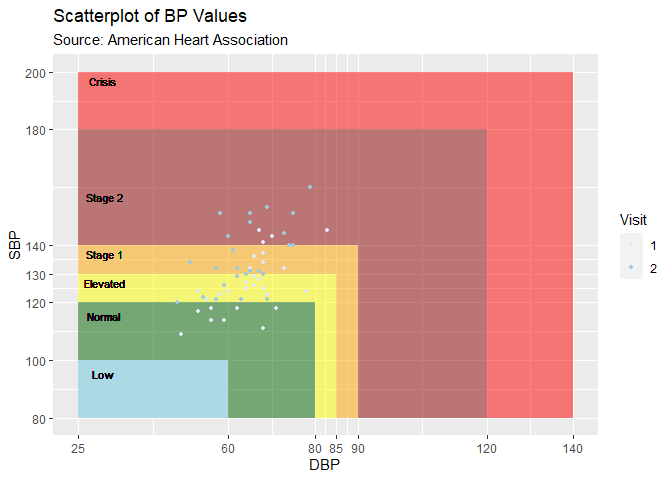
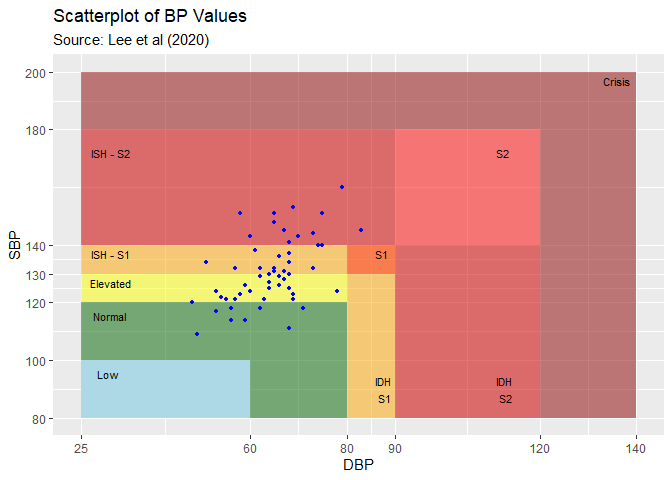
updated readme to reflect most recent additions to package

diff --git a/README.md b/README.md
@@ -20,17 +20,70 @@ status](https://ci.appveyor.com/api/projects/status/github/johnschwenck/bp?branc
 Cardiovascular disease (CVD) is the leading cause of death worldwide
 with Hypertension, specifically, affecting over 1.1 billion people
 annually. The goal of the  package is to provide a comprehensive toolbox
-for analyzing blood pressure data using a variety of statistical metrics
-and visualizations to bring more clarity to CVD.
+for analyzing blood pressure (BP) data using a variety of statistical
+metrics and visualizations to bring more clarity to CVD.
 
-The  package includes two sample data sets:
+The  package includes six sample data sets:
 
-  - `bp_hypnos`: a sample of a larger [HYPNOS
-    study](https://clinicaltrials.gov/ct2/show/NCT02454153) containing
-    ABPM data for multiple subjects using continuous monitoring devices
-  - `bp_jhs`: a single-subject data set from a [2019 pilot
-    study](https://dataverse.harvard.edu/dataverse/r4r) containing
-    non-ABPM data from a self-monitoring Omron Evolv device
+  - `bp_hypnos`: The data set contains ABPM measurements from n=
+    5subjects with type 2diabetes and obstructive sleep apnea. The
+    recordings are taken every hour during the 24-hour period for each
+    of the two visits that are 3 months apart. Additional information
+    includes sleep/wake indicator for each recording inferred from a
+    wrist-worn actigraphy device. The aim of original study (Rooney et
+    al.2021) is to determine the effect of positive airway pressure
+    treatment of sleep apnea on glycemic control and blood pressure of
+    patients with type 2diabetes. The included data is a subset of the
+    full data described in [Rooneyet
+    al.(2021)](https://clinicaltrials.gov/ct2/show/NCT02454153)
+  - `bp_jhs`: The data set consists of HBPM measurements from a [2019
+    single-subject pilot
+    study](https://dataverse.harvard.edu/dataverse/r4r) during an
+    endured aerobic (endurance) exercise: cycling 5,775 miles from New
+    York City, New York to Seward, Alaska over the course of 95 days.
+    Data was collected using an Omron Evolv wireless blood pressure
+    monitor twice per day (in the morning upon waking up and in the
+    evening before bed). The aim of original study (Schwenck 2019) is to
+    assess blood pressure variability across different environments
+    through time.
+  - `bp_ghana`: The data set contains HBPM measurements on n=
+    757subjects across 32 community health centers from
+    cluster-randomized trial in Ghana: 389 subjects are in the health
+    insurance coverage (HIC) group and 368 subjects are in another group
+    consisting of a combination of HIC with a nurse-led task-shifting
+    strategy for hypertension control (TASSH)(this group is denoted
+    TASSH + HIC). Baseline blood pressure measurements were collected,
+    with 85% of subjects having available 12 month follow-up
+    measurements. The aim of original study (Ogedegbe et al.2018) is to
+    assess the comparative effectiveness of HIC alone versus the
+    combination of TASSH + HIC on reducing systolic blood pressure among
+    patients with uncontrolled hypertension in Ghana.
+  - `bp_preg`: The data set contains HBPM measurements from n= 209women,
+    each of whom were recorded every 30 minutes during the Pregnancy Day
+    Assessment Clinic (PDAC) observation window for up to a maximum of
+    240 minutes (i.e. a maximum of 8 total readings per subject per
+    observation window) in addition to an initial “booking” reading
+    before the PDAC assessment. The aim of the original study (McCarthy
+    et al.2015) is to investigate the pregnancy-induced hypertension and
+    pre-eclampsia prediction to determine whether the blood pressure
+    assessment of the first observation window of 1 hour (60 minutes) is
+    sufficiently accurate relative to the standard 4 hour (240 minute)
+    window.
+  - `bp_children`: The data set contains HBPM measurements on n= 1,283
+    children from Bristol, UK. Three blood pressure readings per visit
+    were collected over the course of two observation periods (at ages 9
+    and 11). Additionally, information on their physical activity has
+    been collected. The aim of original study (Solomon-Moore et al.2020)
+    is to examine how sedentary behavior affect children progressing
+    through primary school, and to understand the relationship between
+    elevated blood pressure in children and its impact on the
+    development of cardiovascular disease into adulthood.
+  - `bp_rats`: The data set contains AP measurements sampled at 100 Hz
+    of the SS (n1= 9) and SS.13 (n2= 6) genetic strains of Dahl rats.
+    Each mouse was administered either a low sodium or a high sodium
+    diet. The aim of original study (Bugenhagen et al.2010) is to
+    investigate the connection between the dysfunction of the baroreflex
+    control system in Dahl rats and salt-sensitive Hypertension
 
 ### Installation
 
@@ -58,20 +111,22 @@ devtools::install_github("johnschwenck/bp", build_vignettes = TRUE)
 ### Intended Functionality
 
 The `bp` package is designed to allow the user to initialize a processed
-dataframe by specifying any combination of the following variables
-present in the user-supplied data set (with the minimum requirement that
-`SBP` and `DBP` are included). The package will then utilize the
-processed dataframe to calculate various metrics from medical and
-statistical literature and provide visualizations. Perhaps the most
-useful user-friendly feature of the package is the ability to generate a
-visualization report to discern relationships and assess blood pressure
-stage progression among subjects.
+dataframe through the `process_data` function by specifying any
+combination of the following variables present in the user-supplied data
+set (with the minimum requirement that `SBP` and `DBP` are included).
+The package will then utilize the processed dataframe to calculate
+various metrics from medical and statistical literature and provide
+visualizations. Perhaps the most useful user-friendly feature of the
+package is the ability to generate a visualization report to discern
+relationships and assess blood pressure stage progression among
+subjects.
 
 The package has the ability to make use of the following physiological
 variables (expressed as integers):
 
   - Systolic Blood Pressure (`SBP`) measured in mmHg
   - Diastolic Blood Pressure (`DBP`) measured in mmHg
+  - Arterial Pressure (`AP`) (if applicable)
   - Heart Rate (`HR`) measured in bpm
   - Pulse Pressure (`PP`) measured in mmHg which is calculated as SBP -
     DBP
@@ -79,25 +134,35 @@ variables (expressed as integers):
   - Rate Pressure Product (`RPP`) which is calculated as SBP multiplied
     by resting HR
 
-The data can be further refined on a more granular scale, depending on
-the type of data supplied. In most instances, ABPM data will include
-some kind of binary column corresponding to awake vs asleep which the
-user will assign when initializing the processed data. Further, most
-blood pressure data sets contain a timestamp associated with each
-reading. The additional variables are as follows:
+There are also processing functionality for arterial pressure (AP) data
+which include the following inputs: \* A column corresponding to the AP
+data (`AP`) \* Time elapsed (`time_elap`)
 
-  - `DATE_TIME` combination such as `12/1/2020 13:42:07` (`as.POSIXct`
-    format)
-  - `ID` of individuals, if more than one
-  - `VISIT` corresponding to the visit of each individual, if more than
-    one (integer)
-  - `WAKE` as a binary indicator where 1 denotes awake and 0 denotes
+Furthermore, there are a suite of processing capabilities within the
+`process_data` function such as:
+
+  - `DATE_TIME`: A column coreresponding to a date/time object
+    (typically `as.POSIXct` format) such as `12/1/2020 13:42:07`
+  - `ID`: Identification of individuals
+  - `VISIT`: The visit of each individual, if more than one (integer)
+  - `WAKE`: A binary indicator where 1 denotes awake and 0 denotes
     asleep (binary 1 or 0)
+  - `GROUP`: An arbitrary column that can be used to group data
+    according to this category (such as gender or age)
+  - `EOD`: Denotes the end-of-day which can be adjusted for situations
+    where individuals may take readings after midnight
+  - `DATA_SCREEN`: A screening proceedure to remove outliers based on
+    upper and lower limits of BP readings
+  - `AGG`: An aggregation option to average consecutive readings taken
+    within quick succession
+  - `CHRON_ORDER`: Adjust the chronology of the readings (chronological
+    vs reverse-chronological)
+  - `TZ`: Time zone adjustment
 
 After all available variables are identified and processed, the
 resulting processed dataframe is used for all other functions.
 
-Unique to the `bp` package is the ability to create additional column
+Unique to the `bp` package is the ability to create additional columns
 that might not originally be present in the supplied data set. At
 current, the following additional columns will be created:
 
@@ -107,10 +172,13 @@ current, the following additional columns will be created:
     for table visuals. Based on `DATE_TIME` column
   - `SBP_CATEGORY` - Systolic Blood Pressure Stages (Low, Normal,
     Elevated, Stage 1, Stage 2, Crisis) as defined by the American Heart
-    Association
+    Association (AHA)
   - `DBP_CATEGORY` - Diastolic Blood Pressure Stages (Low, Normal,
     Elevated, Stage 1, Stage 2, Crisis) as defined by the American Heart
-    Association
+    Association (AHA)
+  - `BP_CLASS` - A two-to-one mapping of SBP and DBP readings that
+    expands on the original AHA categories using a more recent
+    adaptation by (Lee et al 2018)
 
 See examples below for further details.
 
@@ -123,15 +191,29 @@ categories of hypertension (normal, elevated, or hypertensive).
 
 The following metrics are currently offered through the `bp` package:
 
-| Function   | Metric Name                                | Source                                                                        |
-| ---------- | ------------------------------------------ | ----------------------------------------------------------------------------- |
-| arv        | Average Real Variability                   | [Mena et al (2005)](https://doi.org/10.1097/01.hjh.0000160205.81652.5a)       |
-| bp\_center | Mean and Median                            | [Amaro Lijarcio et al (2006)](https://doi.org/10.1016/j.ejim.2006.07.023)     |
-| bp\_mag    | Blood Pressure Magnitude (peak and trough) | [Munter et al (2011)](https://doi.org/10.1097/HJH.0b013e32834cf213)           |
-| bp\_range  | Blood Pressure Range                       | [Levitan et al (2013)](https://doi.org/10.1038/jhh.2013.19)                   |
-| cv         | Coefficient of Variation                   | [Munter et al (2011)](https://doi.org/10.1097/HJH.0b013e32834cf213)           |
-| sv         | Successive Variation                       | [Munter et al (2011)](https://doi.org/10.1097/HJH.0b013e32834cf213)           |
-| dip\_calc  | Nocturnal Dipping % and Classification     | [Okhubo et al (1997)](https://academic.oup.com/ajh/article/10/11/1201/148906) |
+| Function           | Metric Name                                | Source                                                                        |
+| ------------------ | ------------------------------------------ | ----------------------------------------------------------------------------- |
+| `bp_arv`           | Average Real Variability                   | [Mena et al (2005)](https://doi.org/10.1097/01.hjh.0000160205.81652.5a)       |
+| `bp_center`        | Mean and Median                            | [Amaro Lijarcio et al (2006)](https://doi.org/10.1016/j.ejim.2006.07.023)     |
+| `bp_cv`            | Coefficient of Variation                   | [Munter et al (2011)](https://doi.org/10.1097/HJH.0b013e32834cf213)           |
+| `bp_mag`           | Blood Pressure Magnitude (peak and trough) | [Munter et al (2011)](https://doi.org/10.1097/HJH.0b013e32834cf213)           |
+| `bp_range`         | Blood Pressure Range                       | [Levitan et al (2013)](https://doi.org/10.1038/jhh.2013.19)                   |
+| `bp_sv`            | Successive Variation                       | [Munter et al (2011)](https://doi.org/10.1097/HJH.0b013e32834cf213)           |
+| `bp_sleep_metrics` | Blood Pressure Sleep Metrics               | (Multiple - see documentation)                                                |
+| `bp_stages`        | Blood Pressure Stages Classification       | American Heart Association                                                    |
+| `bp_stats`         | Aggregation of statistical summaries       | N/A                                                                           |
+| `dip_calc`         | Nocturnal Dipping % and Classification     | [Okhubo et al (1997)](https://academic.oup.com/ajh/article/10/11/1201/148906) |
+
+The following visualization functions are currently offered through the
+`bp` package:
+
+| Function         | Visualization Type              |
+| ---------------- | ------------------------------- |
+| `bp_scatter`     | Scatter plot of BP stages       |
+| `bp_ts_plots`    | Time series plots               |
+| `bp_hist`        | Histograms of BP stages         |
+| `dip_class_plot` | Dipping % category plot         |
+| `bp_report`      | Exportable report of BP summary |
 
 ## Example - HYPNOS data
 
@@ -154,7 +236,7 @@ data(bp_hypnos)
 hypnos_proc <- process_data(bp_hypnos, 
                      sbp = 'syst', 
                      dbp = 'diast', 
-                     bp_datetime = 'date.time', 
+                     date_time = 'date.time', 
                      hr = 'hr', 
                      pp = 'PP', 
                      map = 'MaP', 
@@ -162,6 +244,7 @@ hypnos_proc <- process_data(bp_hypnos,
                      id = 'id', 
                      visit = 'Visit', 
                      wake = 'wake')
+#> NOTE: DATE column found in data and coerced to as.Date() format.
 ```
 
 **NOTE:** the `process_data` function is insensitive to capitalization
@@ -175,11 +258,12 @@ capitalization.
 properly.
 
 2.  Using the newly processed `hypnos_proc`, we can now calculate
-    various metrics. Now that the `bp_hypnos` has been processed into
-    `hypnos_proc`, we can now instead rely on this new dataframe to
-    calculate various metrics and visualizations. The calculation of the
-    nocturnal dipping classification is shown below, using a subset of
-    only two of the subjects for comparison (subjects 70417 and 70435):
+    various metrics. Now that the included raw `bp_hypnos` dataset has
+    been processed into `hypnos_proc`, we can now instead rely on this
+    new dataframe to calculate various metrics and visualizations. The
+    calculation of the nocturnal dipping classification is shown below,
+    using a subset of only two of the subjects for comparison (subjects
+    70417 and 70435):
 
 <!-- end list -->
 
@@ -188,69 +272,56 @@ dip_calc(hypnos_proc, subj = c(70417, 70435))
 #> [[1]]
 #> # A tibble: 8 x 6
 #> # Groups:   ID, VISIT [4]
-#>      ID VISIT  WAKE avg_SBP avg_DBP     N
-#>   <int> <int> <int>   <dbl>   <dbl> <int>
-#> 1 70417     1     0    116.    56       4
-#> 2 70417     1     1    130     66.5    11
-#> 3 70417     2     0    142     63.2     4
-#> 4 70417     2     1    135.    63.9     9
-#> 5 70435     1     0    100     62       3
-#> 6 70435     1     1    130.    82.2    12
-#> 7 70435     2     0    110     65.3     3
-#> 8 70435     2     1    133.    80.3    11
+#>   ID    VISIT WAKE  avg_SBP avg_DBP     N
+#>   <fct> <fct> <fct>   <dbl>   <dbl> <int>
+#> 1 70417 1     0        123.    60.5    10
+#> 2 70417 1     1        128     66.6    20
+#> 3 70417 2     0        136.    60.5     8
+#> 4 70417 2     1        136.    65.6    17
+#> 5 70435 1     0        106.    63       6
+#> 6 70435 1     1        129.    82.1    23
+#> 7 70435 2     0        136.    79.2     9
+#> 8 70435 2     1        123.    72.5    20
 #> 
 #> [[2]]
 #> # A tibble: 4 x 6
 #> # Groups:   ID [2]
-#>      ID VISIT dip_sys class_sys dip_dias class_dias
-#>   <int> <int>   <dbl> <chr>        <dbl> <chr>     
-#> 1 70417     1 -0.110  dipper     -0.158  dipper    
-#> 2 70417     2  0.0510 reverse    -0.0100 non-dipper
-#> 3 70435     1 -0.233  extreme    -0.245  extreme   
-#> 4 70435     2 -0.173  dipper     -0.186  dipper
+#>   ID    VISIT  dip_sys class_sys  dip_dias class_dias
+#>   <fct> <fct>    <dbl> <chr>         <dbl> <chr>     
+#> 1 70417 1      0.0359  non-dipper   0.0916 non-dipper
+#> 2 70417 2     -0.00450 reverse      0.0784 non-dipper
+#> 3 70435 1      0.179   dipper       0.233  extreme   
+#> 4 70435 2     -0.104   reverse     -0.0927 reverse
 ```
 
 In terms of statistical metrics, the `bp_stats` function aggregates many
 of the variability and center metrics into one table which makes
 comparing the different measures to one another very convenient. Let’s
 suppose for this example that we wanted to further analyze these two
-subjects by their `SBP_CATEGORY` and were not concerned about DBP
-output: we would set `bp_type = 1` to subset on only SBP measures, and
-we would include `add_groups = "SBP_category"` as an additional argument
-(note that capitalization does not matter).
+subjects by their `BP_CLASS`: we would include `add_groups = "BP_CLASS"`
+as an additional argument (note that capitalization does not matter).
 
 ``` r
-bp_stats(hypnos_proc, subj = c(70417, 70435), add_groups = "sbp_category", bp_type = 1)
-#> # A tibble: 21 x 16
+bp_stats(hypnos_proc, subj = c(70417, 70435), add_groups = "bp_class", bp_type = 1)
+#> # A tibble: 35 x 16
 #> # Groups:   ID, VISIT, WAKE [8]
-#>       ID     N VISIT  WAKE SBP_CATEGORY SBP_mean SBP_med    SD   ARV    SV
-#>    <int> <int> <int> <int> <fct>           <dbl>   <dbl> <dbl> <dbl> <dbl>
-#>  1 70417     4     1     0 Normal           116.    116.  2.06  1.33  1.83
-#>  2 70417     1     1     1 Normal           118     118  NA    NA    NA   
-#>  3 70417     5     1     1 Elevated         124     124   2.24  2.5   3.24
-#>  4 70417     3     1     1 Stage 1          135.    136   3.21  3     3.61
-#>  5 70417     2     1     1 Stage 2          144     144   1.41  2     2   
-#>  6 70417     2     2     0 Stage 1          133     133   1.41  2     2   
-#>  7 70417     2     2     0 Stage 2          151     151   0     0     0   
-#>  8 70417     1     2     1 Normal           120     120  NA    NA    NA   
-#>  9 70417     1     2     1 Elevated         121     121  NA    NA    NA   
-#> 10 70417     5     2     1 Stage 1          134.    132   4.28  2.75  4.15
-#> # ... with 11 more rows, and 6 more variables: CV <dbl>, SBP_max <dbl>,
-#> #   SBP_min <dbl>, SBP_range <dbl>, Peak <dbl>, Trough <dbl>
+#>    ID        N VISIT WAKE  BP_CLASS SBP_mean SBP_med    SD   ARV    SV    CV
+#>    <fct> <int> <fct> <fct> <ord>       <dbl>   <dbl> <dbl> <dbl> <dbl> <dbl>
+#>  1 70417     5 1     0     Normal       114.     114  3.51  3.5   4.74 3.07 
+#>  2 70417     3 1     0     Elevated     125.     125  1.53  1.5   1.58 1.22 
+#>  3 70417     2 1     0     ISH - S2     143      143  2.83  4     4    1.98 
+#>  4 70417     3 1     1     Normal       116.     118  4.04  3.5   4.95 3.49 
+#>  5 70417     9 1     1     Elevated     125.     124  2.54  3.25  3.71 2.03 
+#>  6 70417     6 1     1     ISH - S1     134.     133  2.42  2.4   2.83 1.81 
+#>  7 70417     2 1     1     ISH - S2     144      144  1.41  2     2    0.982
+#>  8 70417     3 2     0     Elevated     124      122  4.36  4     5    3.52 
+#>  9 70417     2 2     0     ISH - S1     133      133  1.41  2     2    1.06 
+#> 10 70417     3 2     0     ISH - S2     151      151  0     0     0    0    
+#> # ... with 25 more rows, and 5 more variables: SBP_max <dbl>, SBP_min <dbl>,
+#> #   SBP_range <dbl>, Peak <dbl>, Trough <dbl>
 ```
 
-The `bp` package has multiple visualization tools available:
-
-  - `bp_hist` - Histograms for various stages of blood pressure
-  - `bp_scatter` - Scatter plot of the blood pressure stages as denoted
-    by the American Heart Association
-  - `dow_tod_plots` - Table visuals to break down readings by time of
-    day and day of week
-  - `bp_report` - An exportable blood pressure report that aggregates
-    the individual visualization outputs in a clean digestible format
-
-Here is an example of the individual visual function `bp_scatter` for
-subject \#70417:
+Here is an example of the `bp_scatter` function for subject 70417:
 
 ``` r
 bp_scatter(hypnos_proc, subj = 70417)
